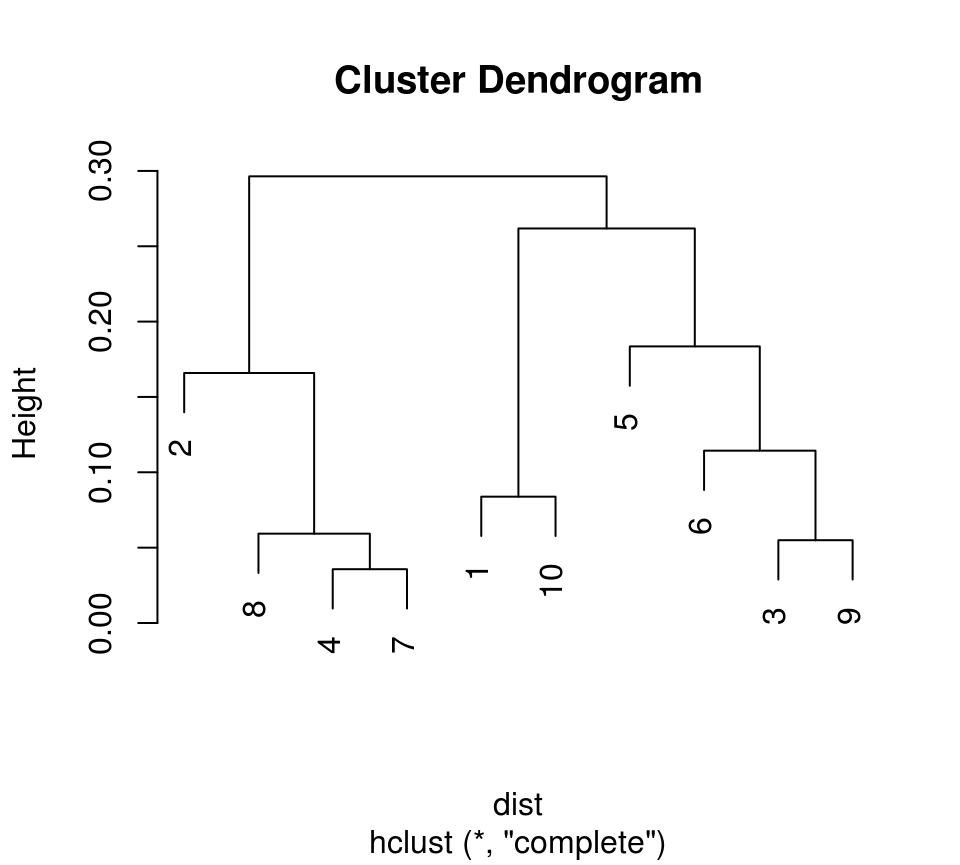
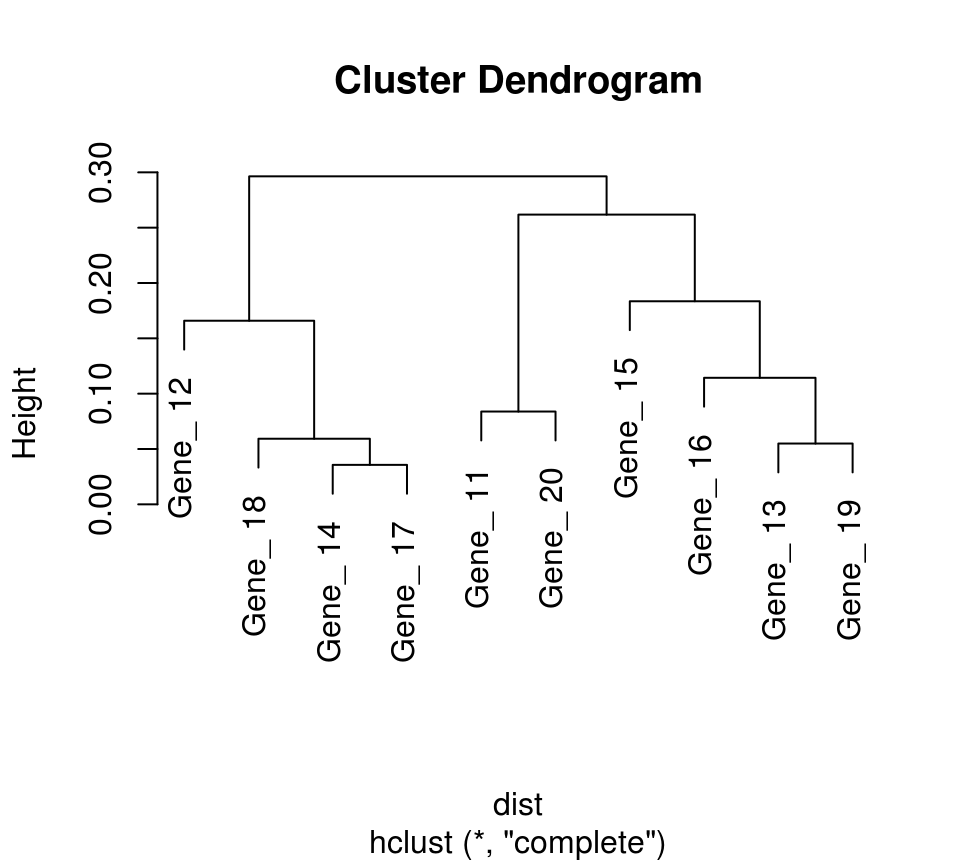
Deploy gitter-lab/LPWC to github.com/gitter-lab/LPWC.git:gh-pages

diff --git a/articles/LPWC.html b/articles/LPWC.html
@@ -101,14 +101,12 @@
 <p>The second option is to download through GitHub.</p>
 <div class="sourceCode" id="cb3"><pre class="sourceCode r"><code class="sourceCode r"><a class="sourceLine" id="cb3-1" data-line-number="1">devtools<span class="op">::</span><span class="kw"><a href="http://www.rdocumentation.org/packages/devtools/topics/reexports">install_github</a></span>(<span class="st">"gitter-lab/LPWC"</span>)</a>
 <a class="sourceLine" id="cb3-2" data-line-number="2"><span class="co">#&gt; Downloading GitHub repo gitter-lab/LPWC@master</span></a></code></pre></div>
-<p>checking for file ‘/tmp/RtmpuWorDC/remotes62c917fabf2a/gitter-lab-LPWC-4525909/DESCRIPTION’ …</p>
-<p>✔ checking for file ‘/tmp/RtmpuWorDC/remotes62c917fabf2a/gitter-lab-LPWC-4525909/DESCRIPTION’</p>
+<p>checking for file ‘/tmp/RtmpMflBft/remotes35ae388d720f/gitter-lab-LPWC-33f32a9/DESCRIPTION’ …</p>
+<p>✔ checking for file ‘/tmp/RtmpMflBft/remotes35ae388d720f/gitter-lab-LPWC-33f32a9/DESCRIPTION’</p>
 <p>─ preparing ‘LPWC’:</p>
-<p>checking DESCRIPTION meta-information …</p>
 <p>✔ checking DESCRIPTION meta-information</p>
 <p>─ checking for LF line-endings in source and make files and shell scripts</p>
-<p>─ checking for empty or unneeded directories</p>
-<p>─ looking to see if a ‘data/datalist’ file should be added</p>
+<p>─ checking for empty or unneeded directories ─ looking to see if a ‘data/datalist’ file should be added</p>
 <p>─ building ‘LPWC_0.99.4.tar.gz’</p>
 <pre><code>#&gt; Installing package into '/home/travis/R/Library'
 #&gt; (as 'lib' is unspecified)</code></pre>
@@ -117,8 +115,8 @@
 <div id="required-input" class="section level2">
 <h2 class="hasAnchor">
 <a href="#required-input" class="anchor"></a>Required input</h2>
-<p><strong>Data</strong>: Input to LPWC is a matrix. We assume here that it is a gene expression matrix, but other data types are suitable as well. The expression matrix should be n -by- p where n is the number of genes (in rows) and p is the number of timepoints.</p>
-<p>The object <strong>simdata</strong> is a simulated dataset for 200 genes with 8 timepoints that follow the biological <a href="https://doi.org/10.1093/bioinformatics/btw665">impulse model</a>. This is stored as a matrix.</p>
+<p><strong>Data</strong>: Input to LPWC is a matrix or data frame. We assume here that it is gene expression data, but other data types are suitable as well. The expression matrix should be n -by- p where n is the number of genes (in rows) and p is the number of timepoints. If <strong>data</strong> is a data frame, the gene names can be specified using the <code>row.names()</code>.</p>
+<p>The object <strong>simdata</strong> is a simulated dataset for 200 genes with 8 timepoints that follow the biological <a href="https://doi.org/10.1093/bioinformatics/btw665">impulse model</a>. This is stored as a data frame in the package with row names representing gene labels.</p>
 <div class="sourceCode" id="cb6"><pre class="sourceCode r"><code class="sourceCode r"><a class="sourceLine" id="cb6-1" data-line-number="1"><span class="kw">data</span>(simdata)</a>
 <a class="sourceLine" id="cb6-2" data-line-number="2">simdata[<span class="dv">1</span><span class="op">:</span><span class="dv">5</span>, ]</a>
 <a class="sourceLine" id="cb6-3" data-line-number="3"><span class="co">#&gt;           Time_ 1   Time_ 2   Time_ 3   Time_ 4  Time_ 5  Time_ 6  Time_ 7</span></a>
@@ -268,32 +266,35 @@
 <p>An example output of LPWC for 10 genes using high penalty follows:</p>
 <div class="sourceCode" id="cb8"><pre class="sourceCode r"><code class="sourceCode r"><a class="sourceLine" id="cb8-1" data-line-number="1">LPWC<span class="op">::</span><span class="kw"><a href="http://www.rdocumentation.org/packages/LPWC/topics/corr.bestlag">corr.bestlag</a></span>(simdata[<span class="dv">49</span><span class="op">:</span><span class="dv">58</span>, ], <span class="dt">timepoints =</span> timepoints, <span class="dt">max.lag =</span> <span class="dv">2</span>, <span class="dt">penalty =</span> <span class="st">"high"</span>, <span class="dt">iter =</span> <span class="dv">10</span>)</a>
 <a class="sourceLine" id="cb8-2" data-line-number="2"><span class="co">#&gt; $corr</span></a>
-<a class="sourceLine" id="cb8-3" data-line-number="3"><span class="co">#&gt;               1            2            3            4            5</span></a>
-<a class="sourceLine" id="cb8-4" data-line-number="4"><span class="co">#&gt; 2   0.851923851                                                    </span></a>
-<a class="sourceLine" id="cb8-5" data-line-number="5"><span class="co">#&gt; 3  -0.218237490  0.185296315                                       </span></a>
-<a class="sourceLine" id="cb8-6" data-line-number="6"><span class="co">#&gt; 4  -0.503013415 -0.185206626  0.820661318                          </span></a>
-<a class="sourceLine" id="cb8-7" data-line-number="7"><span class="co">#&gt; 5  -0.459664840 -0.098109602  0.846568127  0.902530166             </span></a>
-<a class="sourceLine" id="cb8-8" data-line-number="8"><span class="co">#&gt; 6  -0.299615918  0.147669259  0.942905074  0.707652473  0.725611385</span></a>
-<a class="sourceLine" id="cb8-9" data-line-number="9"><span class="co">#&gt; 7  -0.324090620  0.008691392  0.801844343  0.827065718  0.783988169</span></a>
-<a class="sourceLine" id="cb8-10" data-line-number="10"><span class="co">#&gt; 8  -0.311218630  0.145879675  0.958900623  0.806729108  0.821231416</span></a>
-<a class="sourceLine" id="cb8-11" data-line-number="11"><span class="co">#&gt; 9  -0.177943816  0.183155731  0.818514482  0.584610971  0.733599647</span></a>
-<a class="sourceLine" id="cb8-12" data-line-number="12"><span class="co">#&gt; 10 -0.412958564  0.050367297  0.943102621  0.773563872  0.818502367</span></a>
-<a class="sourceLine" id="cb8-13" data-line-number="13"><span class="co">#&gt;               6            7            8            9</span></a>
-<a class="sourceLine" id="cb8-14" data-line-number="14"><span class="co">#&gt; 2                                                     </span></a>
-<a class="sourceLine" id="cb8-15" data-line-number="15"><span class="co">#&gt; 3                                                     </span></a>
-<a class="sourceLine" id="cb8-16" data-line-number="16"><span class="co">#&gt; 4                                                     </span></a>
-<a class="sourceLine" id="cb8-17" data-line-number="17"><span class="co">#&gt; 5                                                     </span></a>
-<a class="sourceLine" id="cb8-18" data-line-number="18"><span class="co">#&gt; 6                                                     </span></a>
-<a class="sourceLine" id="cb8-19" data-line-number="19"><span class="co">#&gt; 7   0.686430019                                       </span></a>
-<a class="sourceLine" id="cb8-20" data-line-number="20"><span class="co">#&gt; 8   0.961429975  0.712528238                          </span></a>
-<a class="sourceLine" id="cb8-21" data-line-number="21"><span class="co">#&gt; 9   0.803809413  0.756633891  0.740717669             </span></a>
-<a class="sourceLine" id="cb8-22" data-line-number="22"><span class="co">#&gt; 10  0.951300777  0.727622247  0.937457260  0.748985339</span></a>
+<a class="sourceLine" id="cb8-3" data-line-number="3"><span class="co">#&gt;              Gene_ 49     Gene_ 50     Gene_ 51     Gene_ 52     Gene_ 53</span></a>
+<a class="sourceLine" id="cb8-4" data-line-number="4"><span class="co">#&gt; Gene_ 50  0.851923851                                                    </span></a>
+<a class="sourceLine" id="cb8-5" data-line-number="5"><span class="co">#&gt; Gene_ 51 -0.218237490  0.185296315                                       </span></a>
+<a class="sourceLine" id="cb8-6" data-line-number="6"><span class="co">#&gt; Gene_ 52 -0.503013415 -0.185206626  0.820661318                          </span></a>
+<a class="sourceLine" id="cb8-7" data-line-number="7"><span class="co">#&gt; Gene_ 53 -0.459664840 -0.098109602  0.846568127  0.902530166             </span></a>
+<a class="sourceLine" id="cb8-8" data-line-number="8"><span class="co">#&gt; Gene_ 54 -0.299615918  0.147669259  0.942905074  0.707652473  0.725611385</span></a>
+<a class="sourceLine" id="cb8-9" data-line-number="9"><span class="co">#&gt; Gene_ 55 -0.324090620  0.008691392  0.801844343  0.827065718  0.783988169</span></a>
+<a class="sourceLine" id="cb8-10" data-line-number="10"><span class="co">#&gt; Gene_ 56 -0.311218630  0.145879675  0.958900623  0.806729108  0.821231416</span></a>
+<a class="sourceLine" id="cb8-11" data-line-number="11"><span class="co">#&gt; Gene_ 57 -0.177943816  0.183155731  0.818514482  0.584610971  0.733599647</span></a>
+<a class="sourceLine" id="cb8-12" data-line-number="12"><span class="co">#&gt; Gene_ 58 -0.412958564  0.050367297  0.943102621  0.773563872  0.818502367</span></a>
+<a class="sourceLine" id="cb8-13" data-line-number="13"><span class="co">#&gt;              Gene_ 54     Gene_ 55     Gene_ 56     Gene_ 57</span></a>
+<a class="sourceLine" id="cb8-14" data-line-number="14"><span class="co">#&gt; Gene_ 50                                                    </span></a>
+<a class="sourceLine" id="cb8-15" data-line-number="15"><span class="co">#&gt; Gene_ 51                                                    </span></a>
+<a class="sourceLine" id="cb8-16" data-line-number="16"><span class="co">#&gt; Gene_ 52                                                    </span></a>
+<a class="sourceLine" id="cb8-17" data-line-number="17"><span class="co">#&gt; Gene_ 53                                                    </span></a>
+<a class="sourceLine" id="cb8-18" data-line-number="18"><span class="co">#&gt; Gene_ 54                                                    </span></a>
+<a class="sourceLine" id="cb8-19" data-line-number="19"><span class="co">#&gt; Gene_ 55  0.686430019                                       </span></a>
+<a class="sourceLine" id="cb8-20" data-line-number="20"><span class="co">#&gt; Gene_ 56  0.961429975  0.712528238                          </span></a>
+<a class="sourceLine" id="cb8-21" data-line-number="21"><span class="co">#&gt; Gene_ 57  0.803809413  0.756633891  0.740717669             </span></a>
+<a class="sourceLine" id="cb8-22" data-line-number="22"><span class="co">#&gt; Gene_ 58  0.951300777  0.727622247  0.937457260  0.748985339</span></a>
 <a class="sourceLine" id="cb8-23" data-line-number="23"><span class="co">#&gt; </span></a>
 <a class="sourceLine" id="cb8-24" data-line-number="24"><span class="co">#&gt; $lags</span></a>
-<a class="sourceLine" id="cb8-25" data-line-number="25"><span class="co">#&gt;  [1] 0 1 0 0 0 0 0 0 0 0</span></a>
-<a class="sourceLine" id="cb8-26" data-line-number="26"><span class="co">#&gt; </span></a>
-<a class="sourceLine" id="cb8-27" data-line-number="27"><span class="co">#&gt; $C</span></a>
-<a class="sourceLine" id="cb8-28" data-line-number="28"><span class="co">#&gt; [1] 306.2401</span></a></code></pre></div>
+<a class="sourceLine" id="cb8-25" data-line-number="25"><span class="co">#&gt; Gene_ 49 Gene_ 50 Gene_ 51 Gene_ 52 Gene_ 53 Gene_ 54 Gene_ 55 Gene_ 56 </span></a>
+<a class="sourceLine" id="cb8-26" data-line-number="26"><span class="co">#&gt;        0        1        0        0        0        0        0        0 </span></a>
+<a class="sourceLine" id="cb8-27" data-line-number="27"><span class="co">#&gt; Gene_ 57 Gene_ 58 </span></a>
+<a class="sourceLine" id="cb8-28" data-line-number="28"><span class="co">#&gt;        0        0 </span></a>
+<a class="sourceLine" id="cb8-29" data-line-number="29"><span class="co">#&gt; </span></a>
+<a class="sourceLine" id="cb8-30" data-line-number="30"><span class="co">#&gt; $C</span></a>
+<a class="sourceLine" id="cb8-31" data-line-number="31"><span class="co">#&gt; [1] 306.2401</span></a></code></pre></div>
 <p>However, many clustering algorithms, such as hierarchical clustering, take distances as input instead of similarities. We convert the similarities to distances by subtracting the similarities from 1. Initially</p>
 <p><span class="math display">\[ -1 \leq Corr \leq 1\]</span></p>
 <p>When we take Dist = 1 - Corr</p>
@@ -310,7 +311,10 @@
 <p>The genes can also be assigned to clusters using cutree function. An example of cluster assignment with 3 clusters:</p>
 <div class="sourceCode" id="cb10"><pre class="sourceCode r"><code class="sourceCode r"><a class="sourceLine" id="cb10-1" data-line-number="1">dist &lt;-<span class="st"> </span><span class="dv">1</span> <span class="op">-</span><span class="st"> </span>LPWC<span class="op">::</span><span class="kw"><a href="http://www.rdocumentation.org/packages/LPWC/topics/corr.bestlag">corr.bestlag</a></span>(simdata[<span class="dv">11</span><span class="op">:</span><span class="dv">20</span>, ], <span class="dt">timepoints =</span> timepoints, <span class="dt">max.lag =</span> <span class="dv">2</span>, <span class="dt">penalty =</span> <span class="st">"low"</span>, <span class="dt">iter =</span> <span class="dv">10</span>)<span class="op">$</span>corr</a>
 <a class="sourceLine" id="cb10-2" data-line-number="2"><span class="kw">cutree</span>(<span class="kw">hclust</span>(dist), <span class="dt">k =</span> <span class="dv">3</span>)</a>
-<a class="sourceLine" id="cb10-3" data-line-number="3"><span class="co">#&gt;  [1] 1 2 3 2 3 3 2 2 3 1</span></a></code></pre></div>
+<a class="sourceLine" id="cb10-3" data-line-number="3"><span class="co">#&gt; Gene_ 11 Gene_ 12 Gene_ 13 Gene_ 14 Gene_ 15 Gene_ 16 Gene_ 17 Gene_ 18 </span></a>
+<a class="sourceLine" id="cb10-4" data-line-number="4"><span class="co">#&gt;        1        2        3        2        3        3        2        2 </span></a>
+<a class="sourceLine" id="cb10-5" data-line-number="5"><span class="co">#&gt; Gene_ 19 Gene_ 20 </span></a>
+<a class="sourceLine" id="cb10-6" data-line-number="6"><span class="co">#&gt;        3        1</span></a></code></pre></div>
 </div>
 <div id="filtering-genes" class="section level2">
 <h2 class="hasAnchor">
@@ -364,7 +368,7 @@
 <a class="sourceLine" id="cb12-32" data-line-number="32"><span class="co">#&gt; [22] yaml_2.2.0        pkgdown_1.1.0     withr_2.1.2      </span></a>
 <a class="sourceLine" id="cb12-33" data-line-number="33"><span class="co">#&gt; [25] stringr_1.3.1     roxygen2_6.1.0    xml2_1.2.0       </span></a>
 <a class="sourceLine" id="cb12-34" data-line-number="34"><span class="co">#&gt; [28] knitr_1.20        desc_1.2.0        fs_1.2.6         </span></a>
-<a class="sourceLine" id="cb12-35" data-line-number="35"><span class="co">#&gt; [31] devtools_2.0.0    grid_3.5.1        rprojroot_1.3-2  </span></a>
+<a class="sourceLine" id="cb12-35" data-line-number="35"><span class="co">#&gt; [31] devtools_2.0.1    grid_3.5.1        rprojroot_1.3-2  </span></a>
 <a class="sourceLine" id="cb12-36" data-line-number="36"><span class="co">#&gt; [34] glue_1.3.0        R6_2.3.0          processx_3.2.0   </span></a>
 <a class="sourceLine" id="cb12-37" data-line-number="37"><span class="co">#&gt; [37] rmarkdown_1.10    sessioninfo_1.1.0 callr_3.0.0      </span></a>
 <a class="sourceLine" id="cb12-38" data-line-number="38"><span class="co">#&gt; [40] magrittr_1.5      scales_1.0.0      backports_1.1.2  </span></a>

diff --git a/reference/corr.bestlag.html b/reference/corr.bestlag.html
@@ -111,15 +111,17 @@
     
     </div>
 
-    <pre class="usage"><span class='fu'>corr.bestlag</span>(<span class='no'>data</span>, <span class='no'>timepoints</span>, <span class='kw'>max.lag</span> <span class='kw'>=</span> <span class='kw'>NULL</span>, <span class='kw'>C</span> <span class='kw'>=</span> <span class='kw'>NULL</span>, <span class='kw'>penalty</span> <span class='kw'>=</span> <span class='st'>"high"</span>,
-  <span class='kw'>iter</span> <span class='kw'>=</span> <span class='fl'>10</span>)</pre>
+    <pre class="usage"><span class='fu'>corr.bestlag</span>(<span class='no'>data</span>, <span class='no'>timepoints</span>, <span class='kw'>max.lag</span> <span class='kw'>=</span> <span class='kw'>NULL</span>, <span class='kw'>C</span> <span class='kw'>=</span> <span class='kw'>NULL</span>,
+  <span class='kw'>penalty</span> <span class='kw'>=</span> <span class='st'>"high"</span>, <span class='kw'>iter</span> <span class='kw'>=</span> <span class='fl'>10</span>)</pre>
     
     <h2 class="hasAnchor" id="arguments"><a class="anchor" href="#arguments"></a>Arguments</h2>
     <table class="ref-arguments">
     <colgroup><col class="name" /><col class="desc" /></colgroup>
     <tr>
       <th>data</th>
-      <td><p>a matrix with rows representing genes and columns representing different timepoints</p></td>
+      <td><p>a matrix or data frame with rows representing genes and columns
+representing different timepoints. If data is a data frame, the gene names
+can be specified using the <code>row.names()</code>.</p></td>
     </tr>
     <tr>
       <th>timepoints</th>

diff --git a/authors.html b/authors.html
@@ -121,11 +121,11 @@ doi: <a href="http://doi.org/10.1101/292615">10.1101/292615</a>, <a href="https:
 
     <ul class="list-unstyled">
       <li>
-        <p><strong>Thevaa Chandereng</strong>. Maintainer, author. 
+        <p><strong>Thevaa Chandereng</strong>. Author, maintainer, copyright holder. <a href='https://orcid.org/0000-0003-4078-9176' target='orcid.widget'><img src='https://members.orcid.org/sites/default/files/vector_iD_icon.svg' class='orcid' height='16'></a>
         </p>
       </li>
       <li>
-        <p><strong>Anthony Gitter</strong>. Author. 
+        <p><strong>Anthony Gitter</strong>. Author, copyright holder. <a href='https://orcid.org/0000-0002-5324-9833' target='orcid.widget'><img src='https://members.orcid.org/sites/default/files/vector_iD_icon.svg' class='orcid' height='16'></a>
         </p>
       </li>
     </ul>

diff --git a/index.html b/index.html
@@ -139,8 +139,8 @@
 <div class="developers">
 <h2>Developers</h2>
 <ul class="list-unstyled">
-<li>Thevaa Chandereng <br><small class="roles"> Maintainer, author </small>  </li>
-<li>Anthony Gitter <br><small class="roles"> Author </small>  </li>
+<li>Thevaa Chandereng <br><small class="roles"> Author, maintainer, copyright holder </small> <a href="https://orcid.org/0000-0003-4078-9176" target="orcid.widget"><img src="https://members.orcid.org/sites/default/files/vector_iD_icon.svg" class="orcid" height="16"></a> </li>
+<li>Anthony Gitter <br><small class="roles"> Author, copyright holder </small> <a href="https://orcid.org/0000-0002-5324-9833" target="orcid.widget"><img src="https://members.orcid.org/sites/default/files/vector_iD_icon.svg" class="orcid" height="16"></a> </li>
 </ul>
 </div>
 

diff --git a/reference/best.lag.html b/reference/best.lag.html
@@ -120,8 +120,9 @@ The lags obtained are in reference to the original timepoints.</p>
     <colgroup><col class="name" /><col class="desc" /></colgroup>
     <tr>
       <th>data</th>
-      <td><p>a matrix with rows representing genes and columns
-representing different timepoints</p></td>
+      <td><p>a matrix or data frame with rows representing genes and columns
+representing different timepoints. If data is a data frame, the gene names
+can be specified using the <code>row.names()</code>.</p></td>
     </tr>
     <tr>
       <th>timepoints</th>

diff --git a/reference/comp.corr.html b/reference/comp.corr.html
@@ -122,8 +122,8 @@ prep.data() and best.lag().</p>
     <colgroup><col class="name" /><col class="desc" /></colgroup>
     <tr>
       <th>data</th>
-      <td><p>a lagged matrix with rows representing genes and columns representing
-different timepoints (NA's added when lags are needed)</p></td>
+      <td><p>a lagged matrix or data frame with rows representing genes and columns representing
+different timepoints (NAs added when lags are needed)</p></td>
     </tr>
     <tr>
       <th>time</th>

diff --git a/reference/prep.data.html b/reference/prep.data.html
@@ -118,8 +118,9 @@
     <colgroup><col class="name" /><col class="desc" /></colgroup>
     <tr>
       <th>data</th>
-      <td><p>a matrix with rows representing genes and columns representing
-different timepoints</p></td>
+      <td><p>a matrix or data frame with rows representing genes and columns
+representing different timepoints. If data is a data frame, the gene names
+can be specified using the <code>row.names()</code>.</p></td>
     </tr>
     <tr>
       <th>lags</th>
